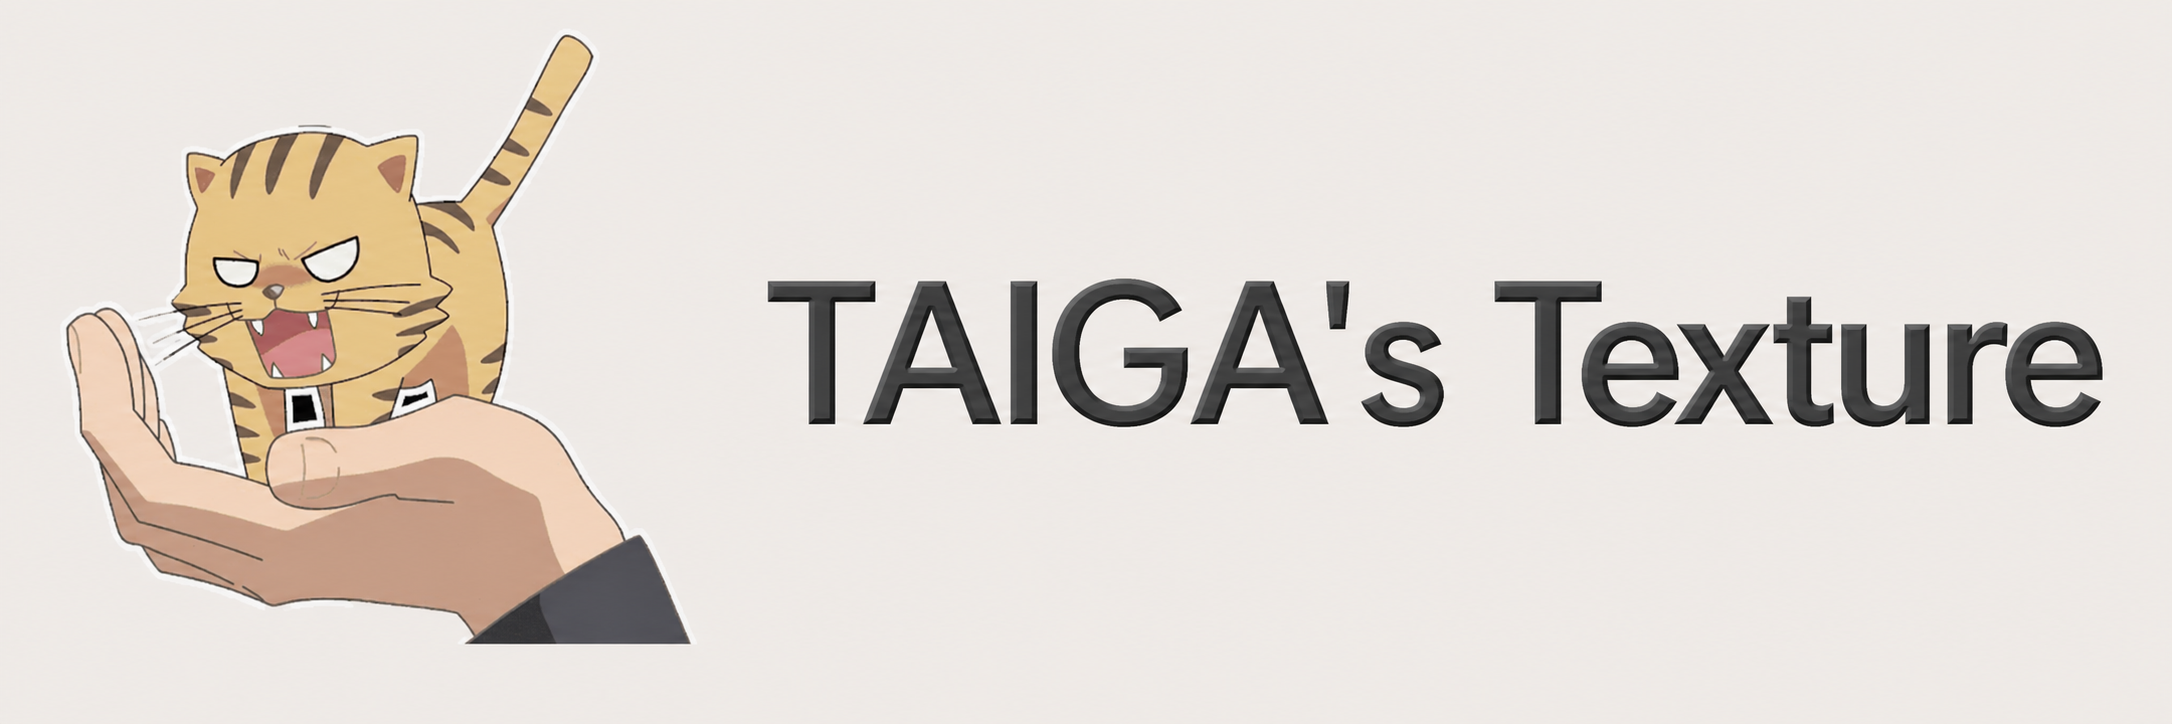
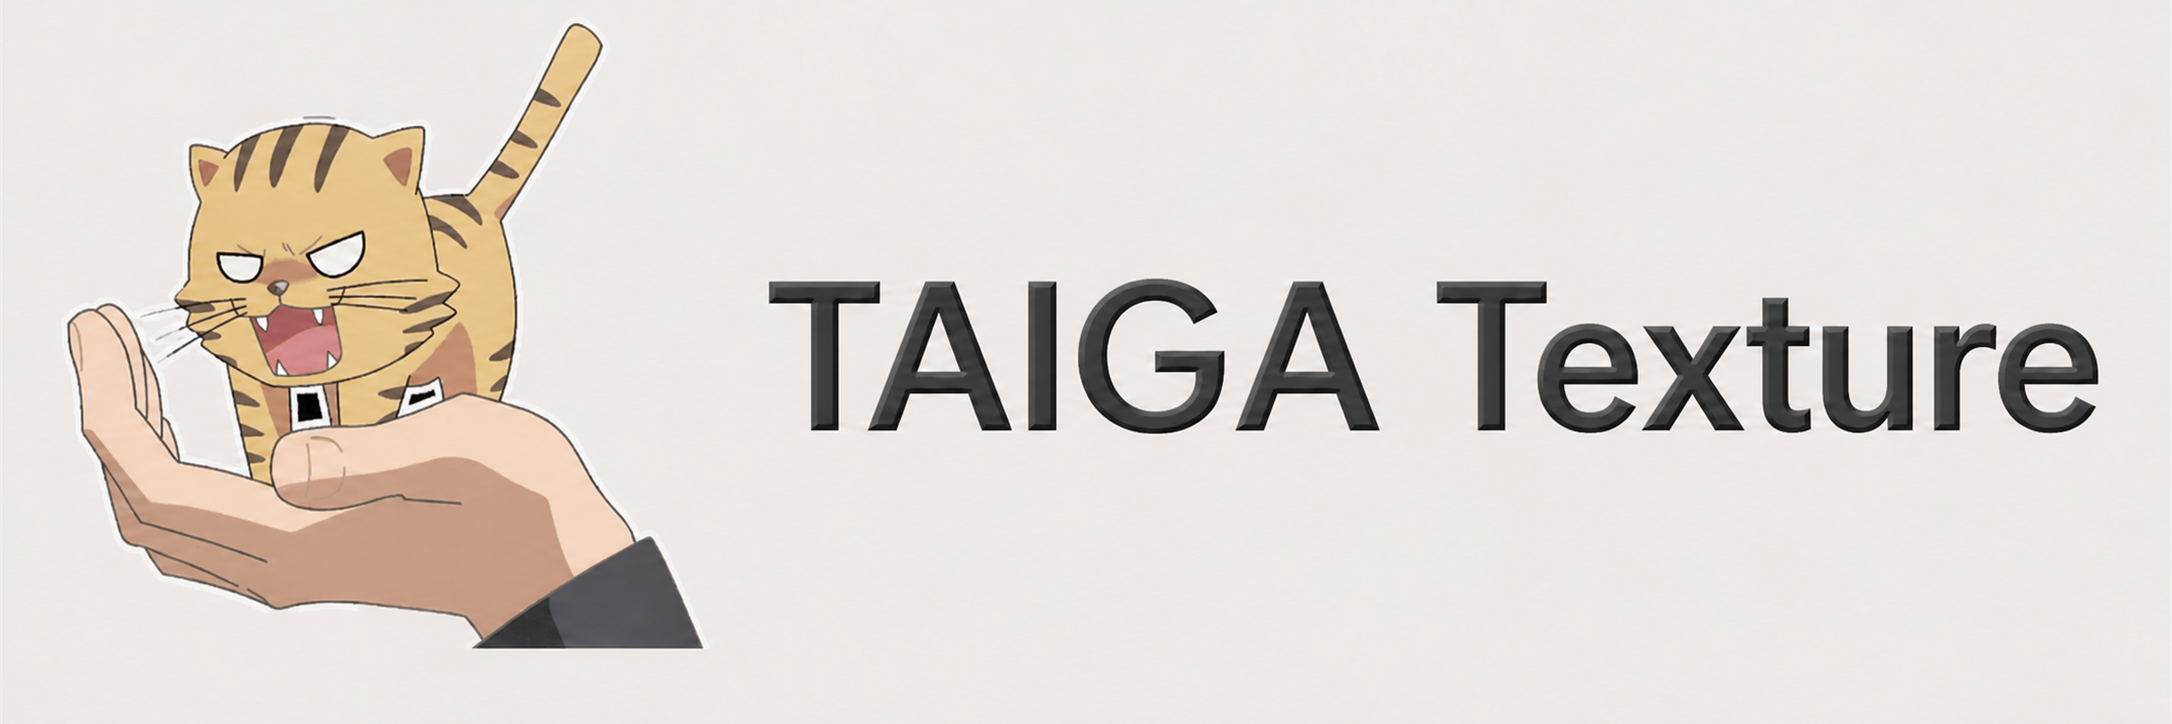
Correct TAIGA Texture product branding

diff --git a/ttx-bench.html b/ttx-bench.html
@@ -3,7 +3,7 @@
 <head>
 <meta charset="utf-8">
 <meta name="viewport" content="width=device-width, initial-scale=1">
-<title>TTX — Texture DSL workbench</title>
+<title>TAIGA Texture — Texture DSL workbench</title>
 <style>
 :root{
   --bg:#141518; --bench:#1c1e22; --panel:#22252a; --line:#2f333a; --ink:#d9d5cc; --dim:#8a8e95; --faint:#565a61;
@@ -14,7 +14,7 @@
 html,body{margin:0;height:100%;background:var(--bg);color:var(--ink);font:12.5px/1.5 var(--mono)}
 body{display:grid;grid-template-rows:auto 1fr;height:100vh;overflow:hidden}
 header{display:flex;align-items:baseline;gap:18px;padding:10px 18px;border-bottom:1px solid var(--line);background:var(--bench)}
-header h1{margin:0;font-size:13px;letter-spacing:.28em;font-weight:600;color:var(--hot)}
+header h1{margin:0;font-size:13px;letter-spacing:.14em;font-weight:600;color:var(--hot);white-space:nowrap}
 header .sub{color:var(--dim);letter-spacing:.04em}
 header .right{margin-left:auto;color:var(--faint);letter-spacing:.06em;font-size:11px}
 main{display:grid;grid-template-columns:minmax(380px,44%) 1fr;min-height:0}
@@ -81,8 +81,8 @@ button.btn:disabled{cursor:wait;color:var(--faint);border-color:var(--line);opac
 </head>
 <body>
 <header>
-  <h1>TTX</h1>
-  <span class="sub">Texture DSL · 순수 field · macro 인라인 · 격자 wrap 타일링 · 되먹임 없음 · 비용 컴파일 타임 확정</span>
+  <h1>TAIGA Texture</h1>
+  <span class="sub">TTX · Texture DSL · 순수 field · macro 인라인 · 격자 wrap 타일링 · 되먹임 없음 · 비용 컴파일 타임 확정</span>
   <span class="right"><span id="hdr-tile"></span> · <span id="hdr-right"></span></span>
 </header>
 <main>
@@ -1551,7 +1551,7 @@ out rough  = clamp(0.23 + 0.28*vn, 0, 1)
   const irbox = $('irbox'), irButton = $('toggle-ir');
   const cv = { shaded: $('c-shaded'), albedo: $('c-albedo'), height: $('c-height'), normal: $('c-normal') };
   const preview3d = TTX_3D.create($('c-preview3d'));
-  const state = { prog: null, buf: null, nrm: null, V: null, materialId: 'material', materialName: 'TTX MATERIAL', light: { az: 0.12, el: 0.45 }, relief: 0.6, repeat3d: 1, N: 320, zoom: 1, centerU: 0.5, centerV: 0.5, dirty: true };
+  const state = { prog: null, buf: null, nrm: null, V: null, materialId: 'material', materialName: 'TAIGA Texture material', light: { az: 0.12, el: 0.45 }, relief: 0.6, repeat3d: 1, N: 320, zoom: 1, centerU: 0.5, centerV: 0.5, dirty: true };
   let timer = null;
 
   // ---------- tabs ----------

diff --git a/README.md b/README.md
@@ -1,12 +1,14 @@
 <p align="center">
-  <img src="./assets/banner.png" width="100%" alt="TAIGA's Texture">
+  <img src="./assets/banner.png" width="100%" alt="TAIGA Texture">
 </p>
 
 <p align="center"><code>deterministic procedural materials · browser workbench · CLI · MCP</code></p>
 
 ---
 
-> **TAIGA's Texture** is a compact procedural-material laboratory built around **TTX**, a deterministic **Texture DSL** that can be authored by people or driven by an LLM.
+> **TAIGA Texture** is a compact procedural-material laboratory with a deterministic **Texture DSL** that can be authored by people or driven by an LLM.
+
+**TTX** is the technical shorthand taken from **Taiga TeXture**. It names the file format and toolchain; the language itself is called **Texture DSL**.
 
 Edit materials in the browser, inspect PBR channels and a cube preview, then automate the same engine through the CLI or MCP.
 
